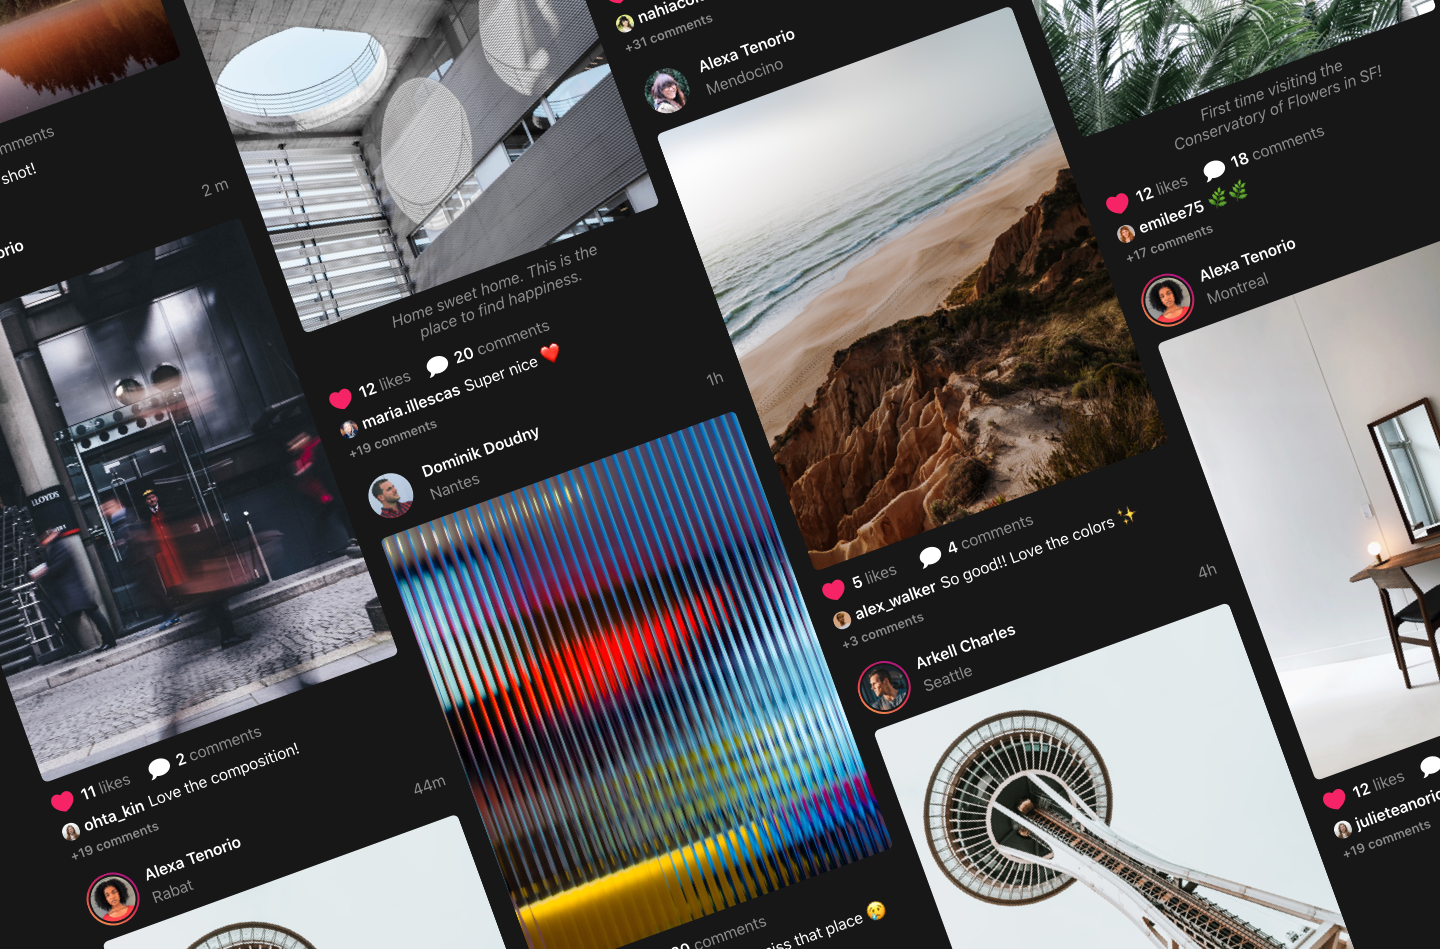
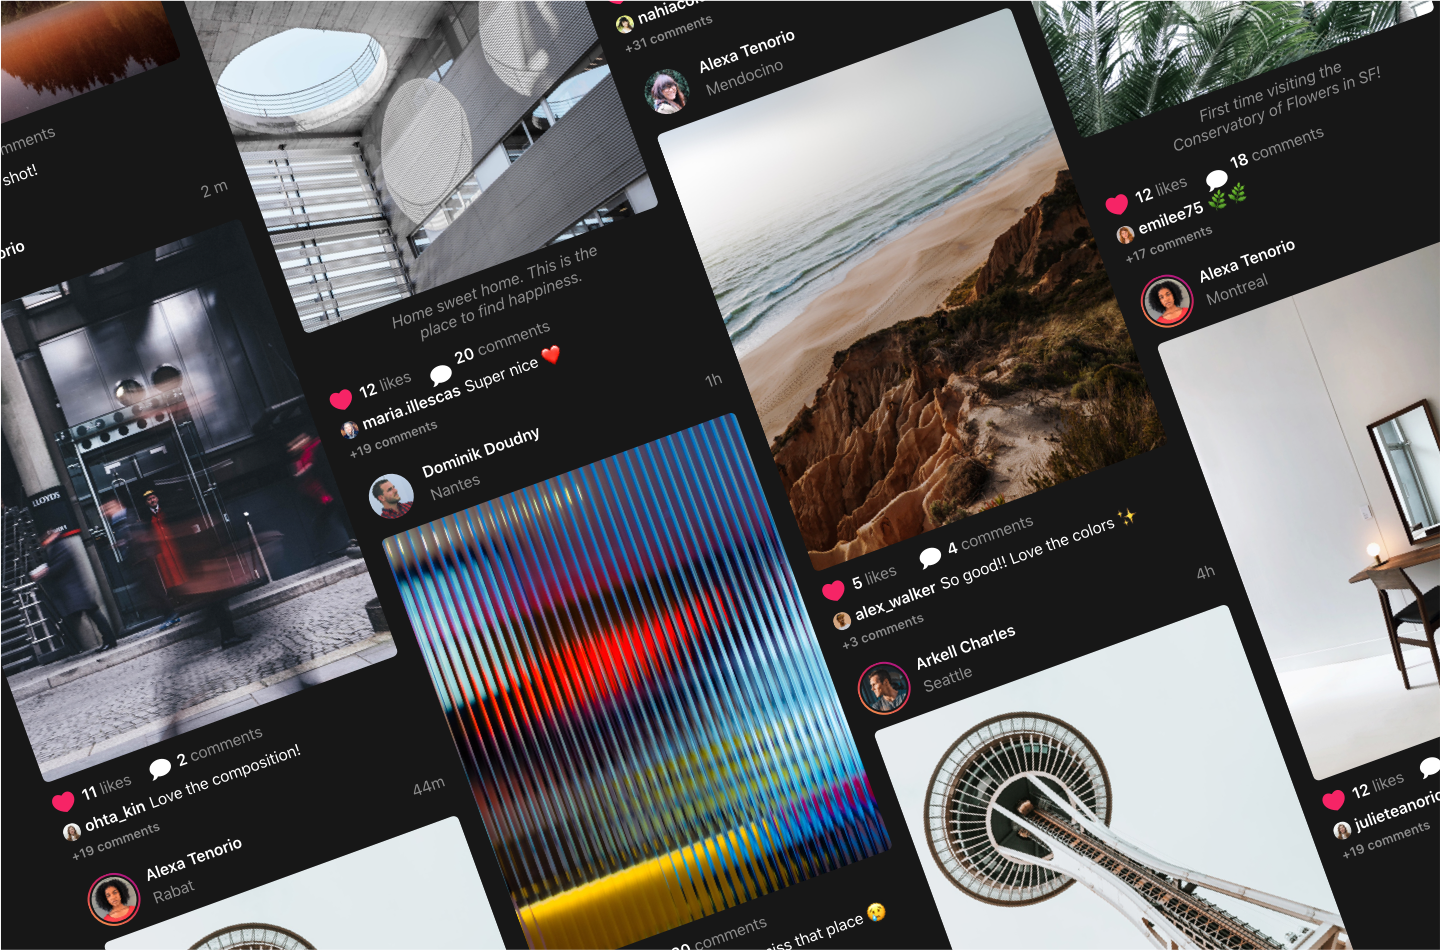
:construction:

diff --git a/clear-sky.html b/clear-sky.html
@@ -36,11 +36,11 @@
       <div class="container full-width">
         <img
           class="full-width"
-          src="./assets/images/projects/instagram/posts.png"
+          src="./assets/images/projects/clear-sky/screens.png"
           srcset="
-            ./assets/images/projects/instagram/posts.png    1440w,
-            ./assets/images/projects/instagram/posts@2x.png 2880w,
-            ./assets/images/projects/instagram/posts@3x.png 4320w
+            ./assets/images/projects/clear-sky/screens.png    1440w,
+            ./assets/images/projects/clear-sky/screens@2x.png 2880w,
+            ./assets/images/projects/clear-sky/screens@3x.png 4320w
           "
           alt=""
         />

diff --git a/dist/clear-sky.html b/dist/clear-sky.html
@@ -19,7 +19,7 @@
         </p>
       </div>
       <div class="container full-width">
-        <img class="full-width" src="/posts.32157eff.png" srcset="/posts.32157eff.png    1440w,/posts@2x.5f3f3db4.png 2880w,/posts@3x.64017d2d.png 4320w" alt="">
+        <img class="full-width" src="/screens.baba7533.png" srcset="/screens.baba7533.png    1440w,/screens@2x.70b11699.png 2880w,/screens@3x.f9312047.png 4320w" alt="">
       </div>
       <div class="container block">
         <h2>Stories</h2>

diff --git a/dist/project.ea0876a1.js b/dist/project.ea0876a1.js
@@ -1916,7 +1916,7 @@ var parent = module.bundle.parent;
 if ((!parent || !parent.isParcelRequire) && typeof WebSocket !== 'undefined') {
   var hostname = "" || location.hostname;
   var protocol = location.protocol === 'https:' ? 'wss' : 'ws';
-  var ws = new WebSocket(protocol + '://' + hostname + ':' + "65124" + '/');
+  var ws = new WebSocket(protocol + '://' + hostname + ':' + "49465" + '/');
 
   ws.onmessage = function (event) {
     checkedAssets = {};

diff --git a/dist/scripts.71c4e892.js b/dist/scripts.71c4e892.js
@@ -1911,7 +1911,7 @@ var parent = module.bundle.parent;
 if ((!parent || !parent.isParcelRequire) && typeof WebSocket !== 'undefined') {
   var hostname = "" || location.hostname;
   var protocol = location.protocol === 'https:' ? 'wss' : 'ws';
-  var ws = new WebSocket(protocol + '://' + hostname + ':' + "65124" + '/');
+  var ws = new WebSocket(protocol + '://' + hostname + ':' + "49465" + '/');
 
   ws.onmessage = function (event) {
     checkedAssets = {};

diff --git a/dist/main.c1d0e28d.js b/dist/main.c1d0e28d.js
@@ -243,7 +243,7 @@ var parent = module.bundle.parent;
 if ((!parent || !parent.isParcelRequire) && typeof WebSocket !== 'undefined') {
   var hostname = "" || location.hostname;
   var protocol = location.protocol === 'https:' ? 'wss' : 'ws';
-  var ws = new WebSocket(protocol + '://' + hostname + ':' + "65124" + '/');
+  var ws = new WebSocket(protocol + '://' + hostname + ':' + "49465" + '/');
 
   ws.onmessage = function (event) {
     checkedAssets = {};
